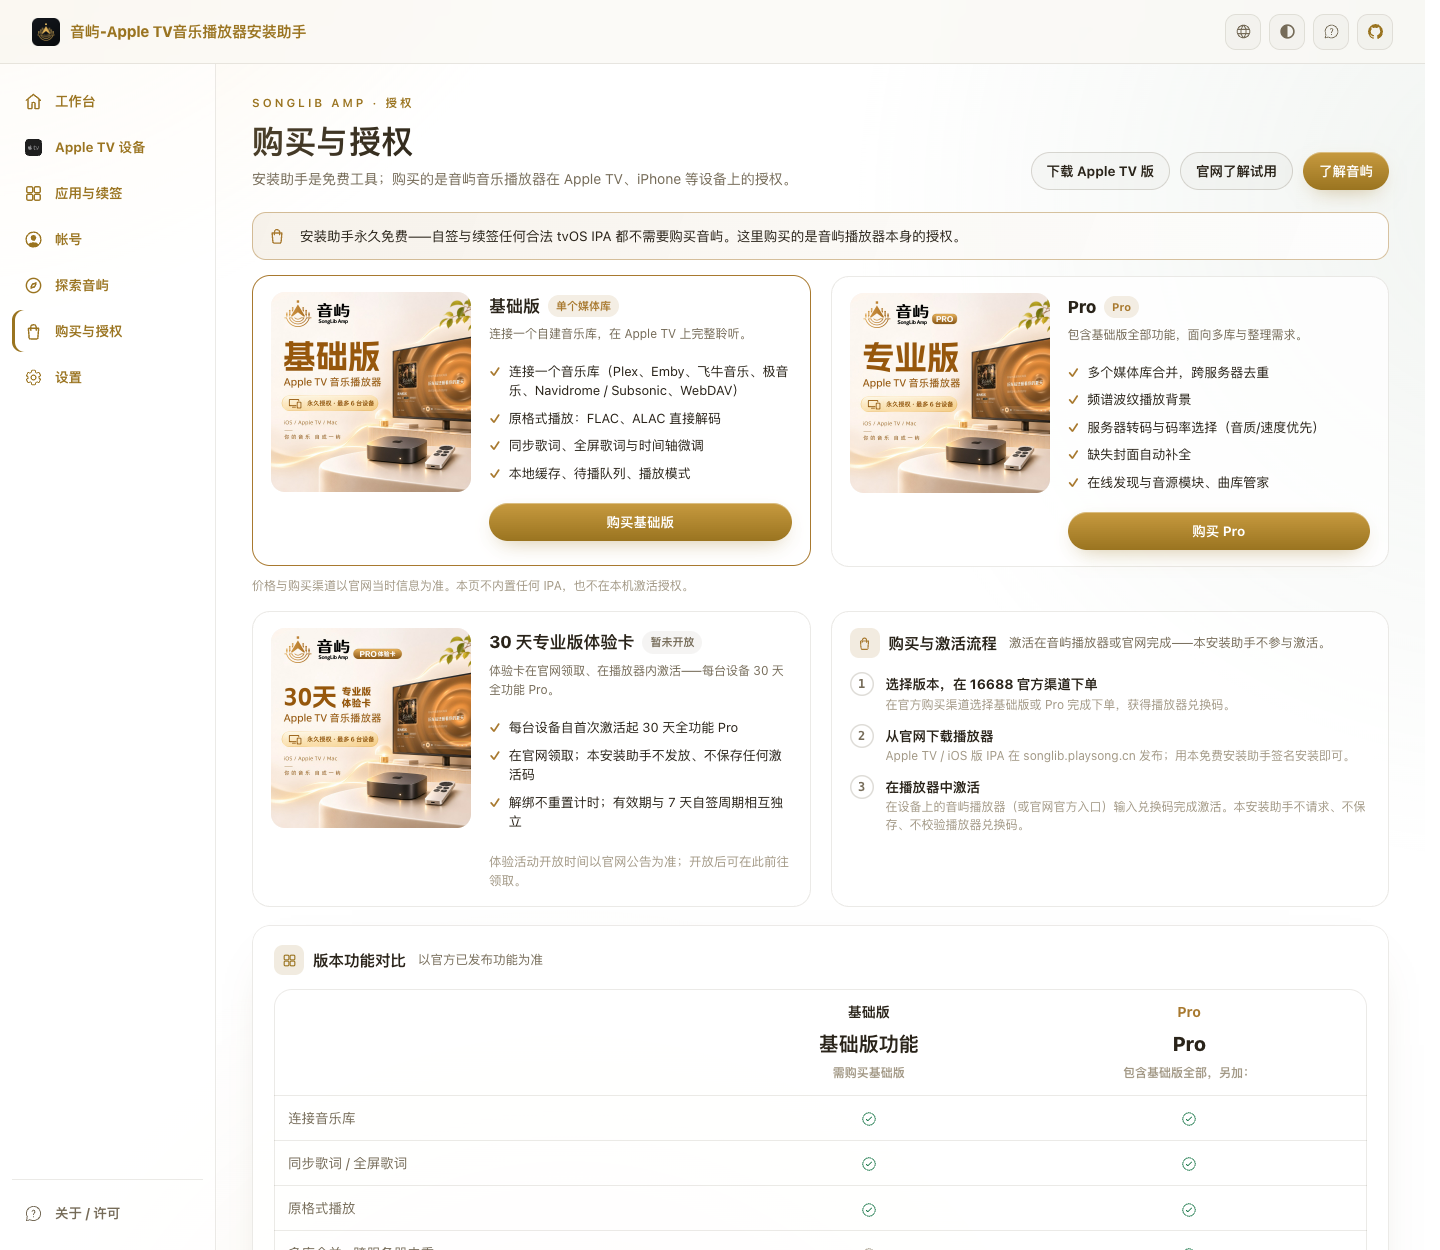
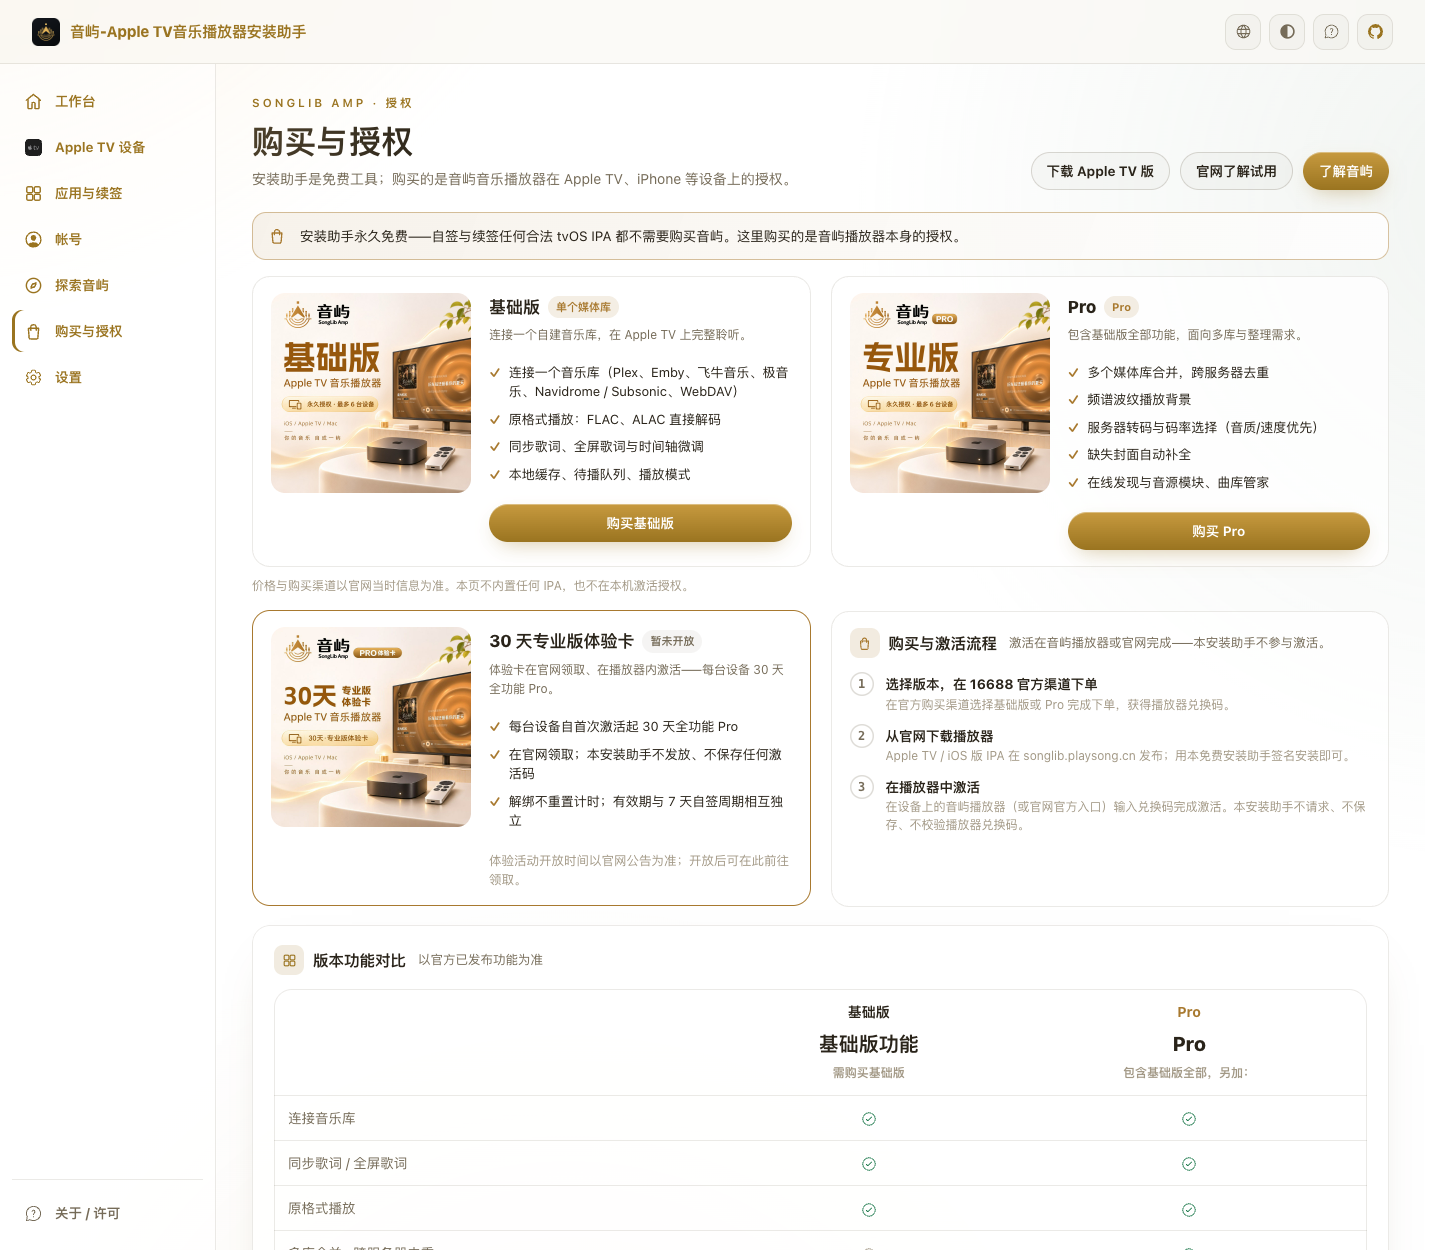
feat(purchase): use the owner's reissued 30-day trial cover
The previous trial artwork printed 「永久授权 · 最多 6 台设备」 on a 30-day
experience card, which contradicted the product rule. The owner reissued the
image with a 「30天·专业版体验卡」 badge; the rest of the artwork is untouched.

- marketing/plan-covers/plan-cover-trial.jpg: new 1254x1254 source
  (sha256 56348301…), replacing the superseded fedc5f01… file.
- web/static/public/plan/cover-trial.jpg: regenerated 800px q82 copy.
- branding/provenance.json records the reason, the new hashes and the old
  source hash so the change stays traceable.
- docs/preview/purchase-20261104: acceptance screenshots refreshed against
  the new artwork; checkpoint doc drops the artwork contradiction and keeps
  only the real remaining gaps.

diff --git a/docs/DEVELOPMENT_CHECKPOINT_20261104.md b/docs/DEVELOPMENT_CHECKPOINT_20261104.md
@@ -71,12 +71,20 @@
 
 ## 仍未完成（按优先级）
 
-1. **体验卡素材自相矛盾（需所有者决定）**：`web/static/public/plan/cover-trial.jpg` 与 `marketing/plan-covers/plan-cover-trial.jpg` 上同时印着「30 天专业版体验卡」和「永久授权 · 最多 6 台设备」。代码无法消除这个矛盾，需要换图、裁掉该角标，或确认试用确实含永久授权。
-2. **1.0.1 未形成可交付工件**：diagnostics 已跟随版本号，但 Compose 模板、`packaging/fnos` 与 Release 文档仍引用 `0.1.3` 镜像；没有已发布的 1.0.1 多架构镜像前，不能出「引用旧镜像的新 FPK」。
-3. `validBuyURL` 仍允许任意 `/goods/xxx` 路径；若要防错链，可再校验商品号白名单（G41709534 / G49510548）。
-4. 官网代理与私有销售 API 的实际部署状态未核实；本轮只验证了本地接口行为。
-5. 私有仓 sales adapter（分页、多卡/退款、金额换算、卡密上传回执）与六台授权迁移的真实存量演练未推进——属私有仓范围，需要单独批准。
-6. 真实 fnOS 生命周期、Apple TV 配对/签名/安装、7 天续签观察仍未验收。
+1. **1.0.1 未形成可交付工件**：diagnostics 已跟随版本号，但 Compose 模板、`packaging/fnos` 与 Release 文档仍引用 `0.1.3` 镜像；没有已发布的 1.0.1 多架构镜像前，不能出「引用旧镜像的新 FPK」。
+2. `validBuyURL` 仍允许任意 `/goods/xxx` 路径；若要防错链，可再校验商品号白名单（G41709534 / G49510548）。
+3. 官网代理与私有销售 API 的实际部署状态未核实；本轮只验证了本地接口行为。
+4. 私有仓 sales adapter（分页、多卡/退款、金额换算、卡密上传回执）与六台授权迁移的真实存量演练未推进——属私有仓范围，需要单独批准。
+5. 真实 fnOS 生命周期、Apple TV 配对/签名/安装、7 天续签观察仍未验收。
+
+## 体验卡素材已由所有者更新
+
+上一轮记录的矛盾——同一张体验卡图上同时印「30 天专业版体验卡」与「永久授权 · 最多 6 台设备」——已由所有者于 2026-11-04 重出图解决：新图角标改为「30天·专业版体验卡」，其余画面元素不变。
+
+- `marketing/plan-covers/plan-cover-trial.jpg`：新原始图（1254×1254），sha256 `56348301…`。
+- `web/static/public/plan/cover-trial.jpg`：800px q82 网页副本，sha256 `f69fc283…`。
+- `branding/provenance.json` 已记录换图原因与旧图哈希，便于追溯。
+- 基础版 / Pro 主图未改，仍保留所有者的「永久授权 · 最多 6 台设备」宣示。
 
 ## 范围边界
 
